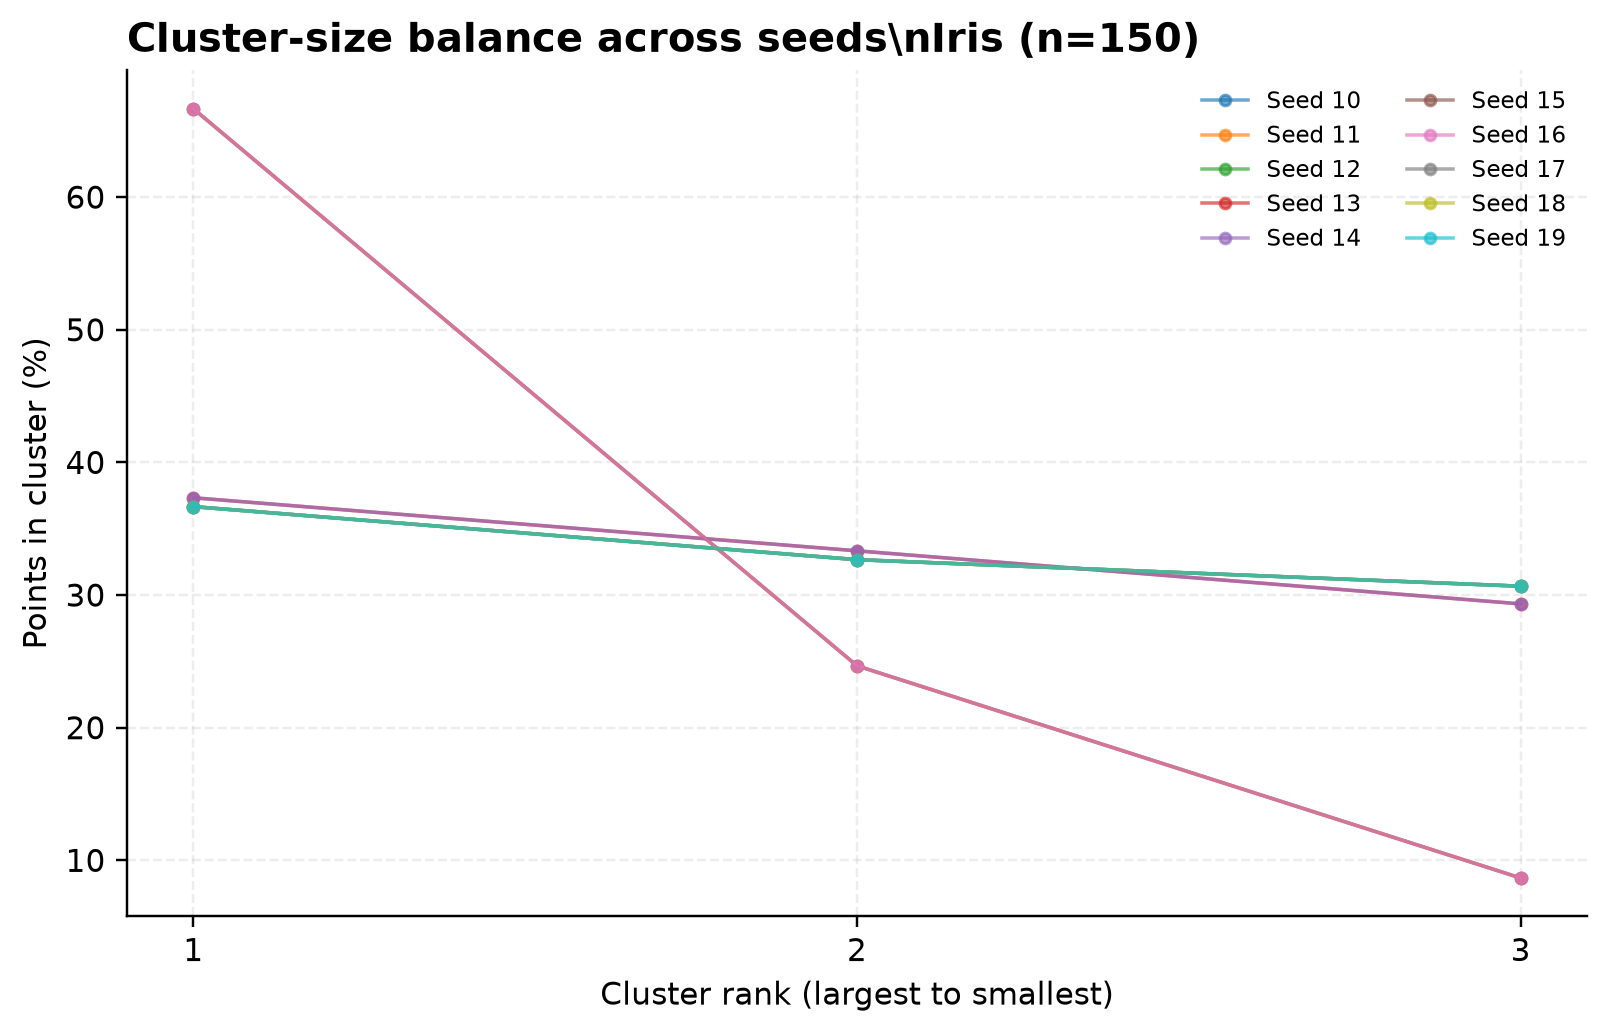
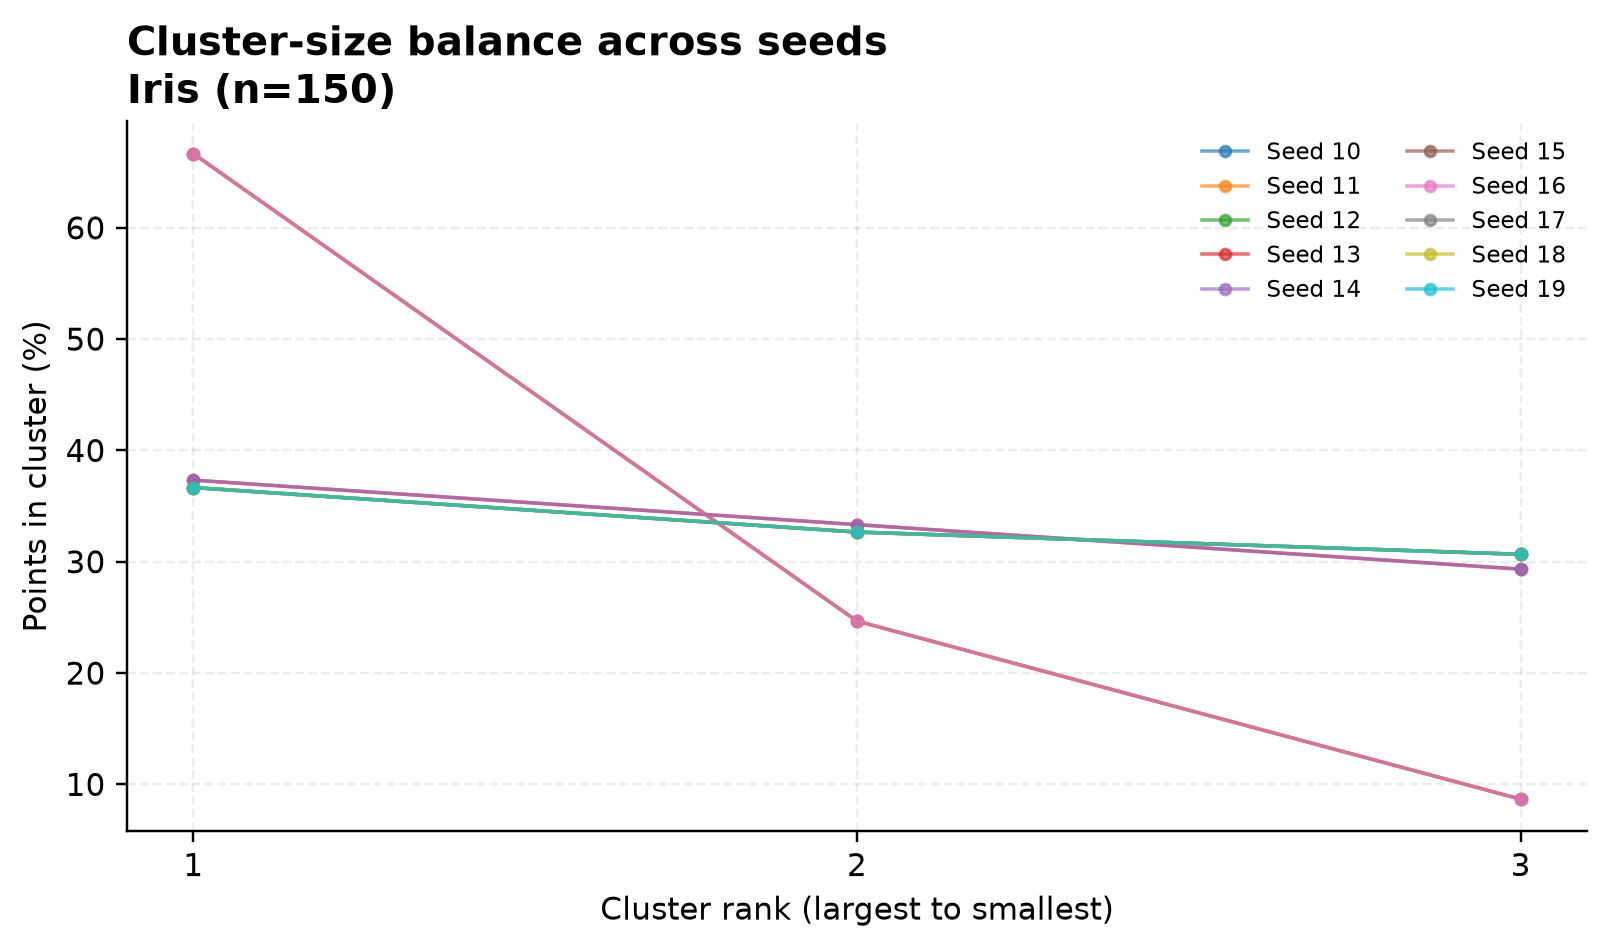
K-means evaluation plots

diff --git a/src/kmeans_plot.py b/src/kmeans_plot.py
@@ -28,7 +28,7 @@ plt.rcParams.update({
 OUT.mkdir(parents=True, exist_ok=True)
 
 def save(fig, name):
-    fig.tight_layout()
+    fig.tight_layout(rect=[0, 0, 1, 0.92])
     fig.savefig(OUT / name, bbox_inches="tight", facecolor="white")
     plt.close(fig)
     print("Saved:", OUT / name)
@@ -48,9 +48,10 @@ def metric_plot(column, title, filename, ylim=None):
     ax.set_xticks(range(len(ORDER)), [DATASETS[d] for d in ORDER],
                   rotation=16, ha="right")
     ax.set_ylabel(column.replace("_", " "))
-    ax.set_title(title, loc="left", weight="bold")
-    ax.text(0, 1.015, "Dots = individual runs | Diamond and whiskers = median and IQR",
-            transform=ax.transAxes, fontsize=8.5, color="#555")
+    ax.set_title(title, loc="left", weight="bold", pad=20)
+    fig.text(0.5, 0.965,
+             "Dots = individual runs | Diamond and whiskers = median and IQR",
+             ha="center", va="top", fontsize=8.5, color="#555")
     if ylim:
         ax.set_ylim(*ylim)
     save(fig, filename)
@@ -120,7 +121,7 @@ def stability_plot(dataset, assignments):
     im = ax.imshow(mat, vmin=0, vmax=1, cmap="viridis")
     ax.set_xticks(range(len(seeds)), seeds); ax.set_yticks(range(len(seeds)), seeds)
     ax.set_xlabel("Seed"); ax.set_ylabel("Seed")
-    ax.set_title(f"Seed-to-seed assignment stability\\n{DATASETS[dataset]}",
+    ax.set_title(f"Seed-to-seed assignment stability\n{DATASETS[dataset]}",
                  loc="left", weight="bold")
     for r in range(len(seeds)):
         for c in range(len(seeds)):
@@ -145,7 +146,7 @@ def cluster_size_plot(dataset, assignments):
     ax.set_xlabel("Cluster rank (largest to smallest)")
     ax.set_ylabel("Points in cluster (%)")
     ax.set_xticks(range(1, max_k+1))
-    ax.set_title(f"Cluster-size balance across seeds\\n{DATASETS[dataset]}",
+    ax.set_title(f"Cluster-size balance across seeds\n{DATASETS[dataset]}",
                  loc="left", weight="bold")
     ax.legend(ncol=2, fontsize=7.5, frameon=False)
     save(fig, f"cluster_sizes_{dataset}.png")
